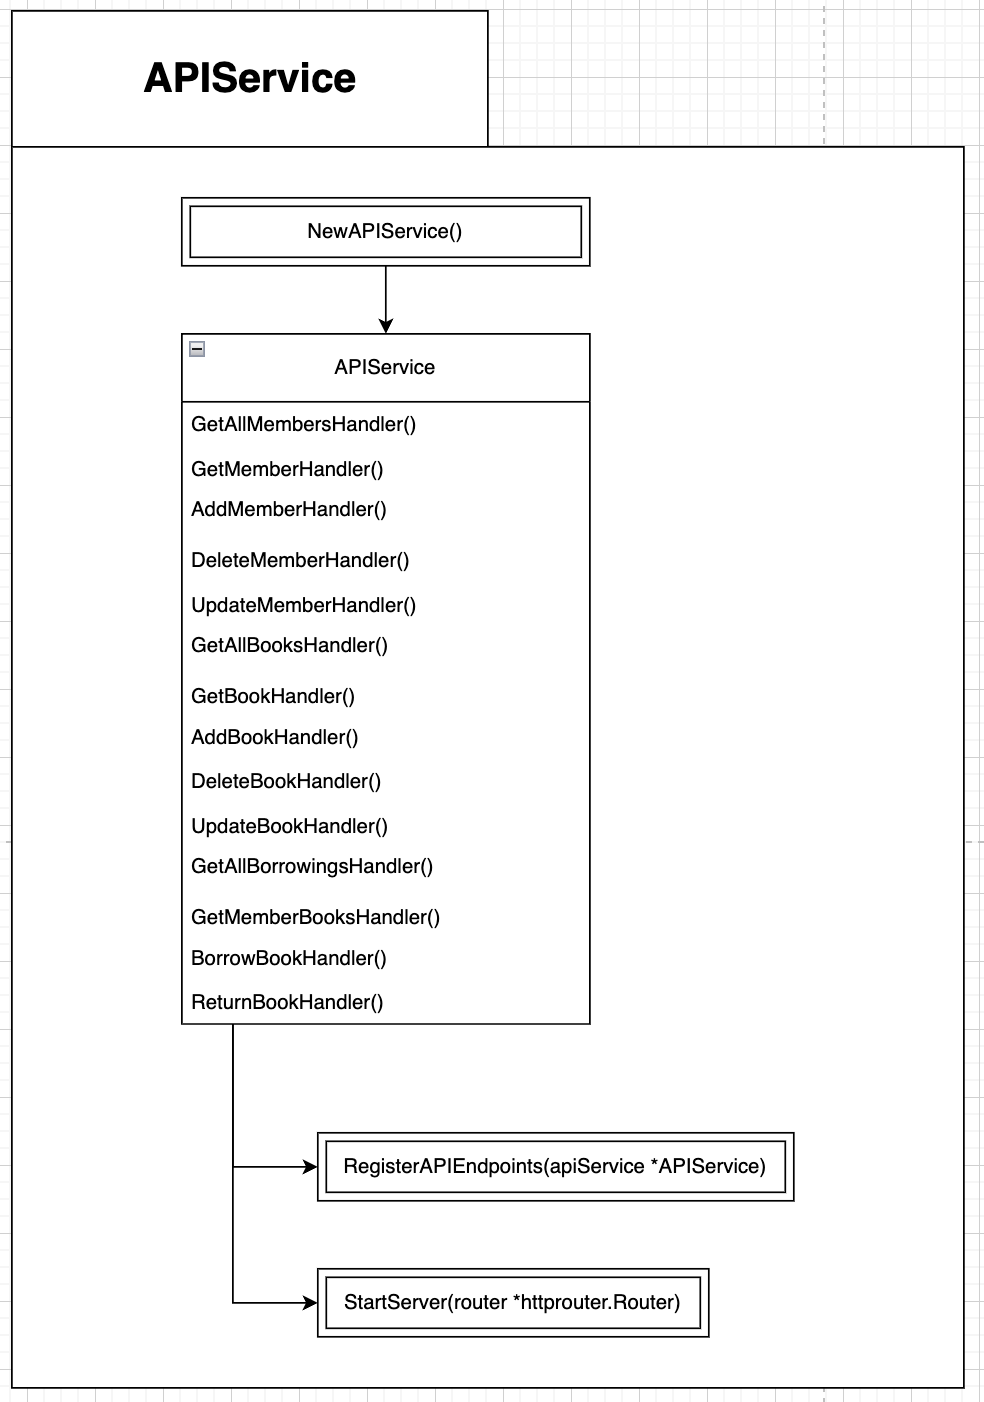
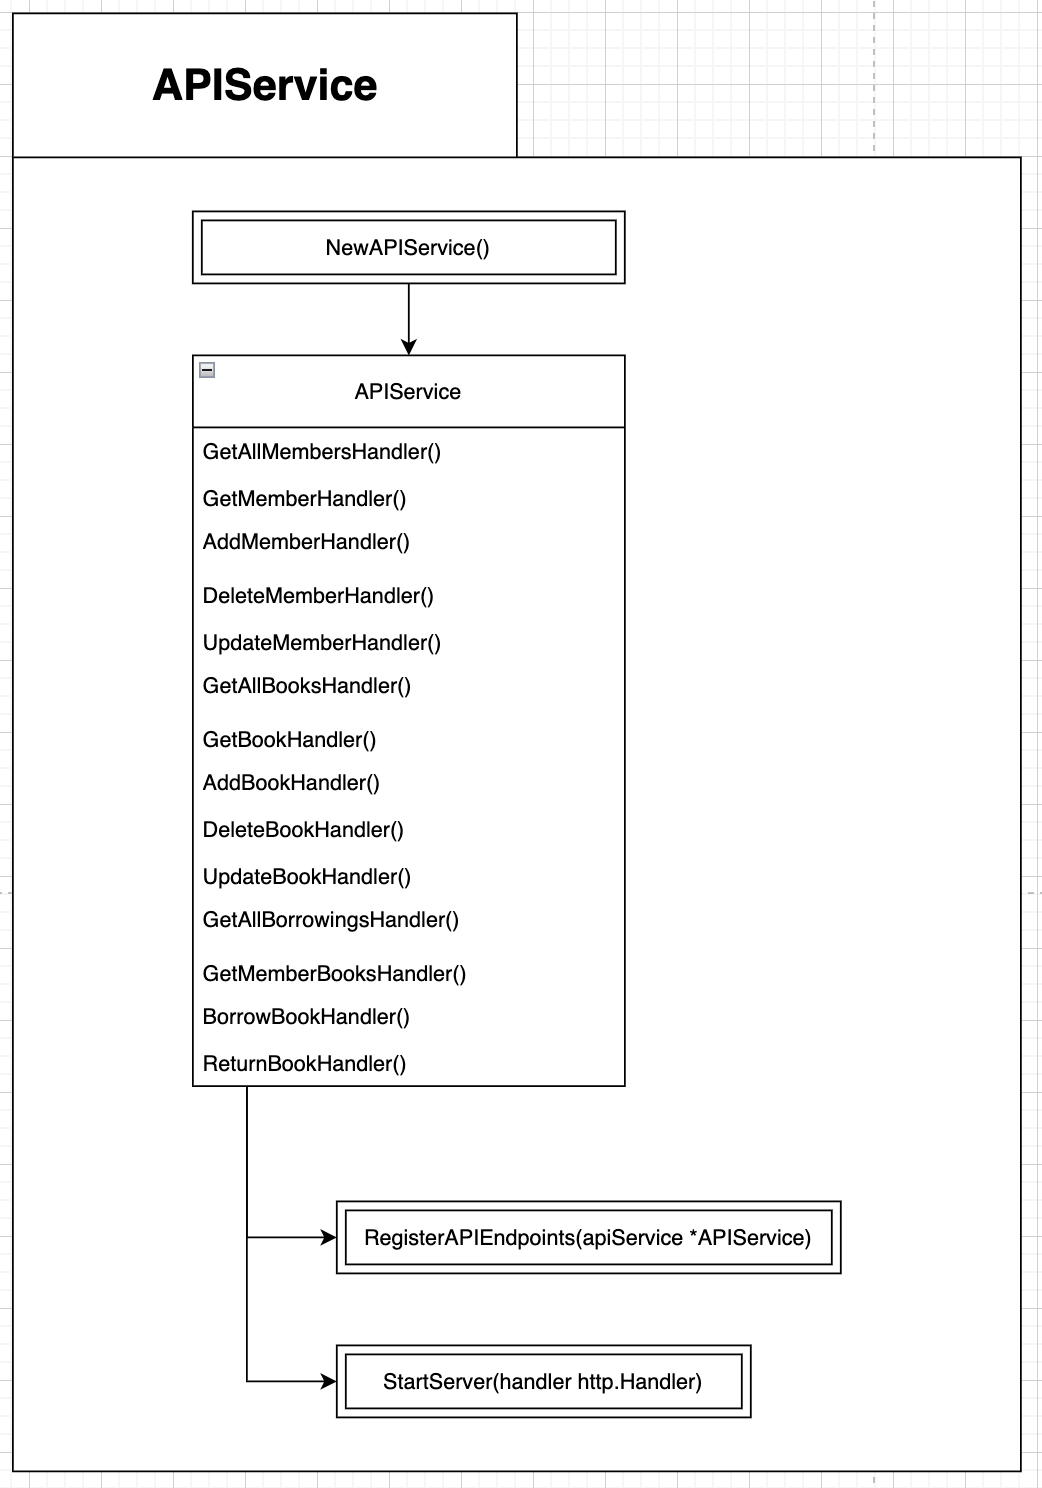
Fix bugs with time

diff --git a/internal/repositories/member_repository.go b/internal/repositories/member_repository.go
@@ -25,12 +25,13 @@ func (mr *MemberRepository) GetMember(id string) (models.Member, error) {
 
 func (mr *MemberRepository) AddMember(name string, address string, email string) error {
 	newID := GenerateID()
+	curTime, _ := time.Parse(time.DateTime, time.Now().Format(time.DateTime))
 	newMember := models.Member{
 		ID:        newID,
 		Name:      name,
 		Address:   address,
 		Email:     email,
-		CreatedAt: time.Now(),
+		CreatedAt: curTime,
 	}
 	err := storage.AddMemberStorage(newMember)
 	if err != nil {

diff --git a/internal/repositories/borrowing_repository.go b/internal/repositories/borrowing_repository.go
@@ -2,6 +2,7 @@ package repositories
 
 import (
 	"app/internal/models"
+	"errors"
 	"time"
 )
 
@@ -41,6 +42,10 @@ func (br *BorrowingRepository) GetMemberBooks(memberID string) ([]models.Book, e
 }
 
 func (br *BorrowingRepository) BorrowBook(bookID string, memberID string, borrowYear int) error {
+	if borrowYear > time.Now().Year() {
+		return errors.New("invalid year")
+	}
+
 	newID := GenerateID()
 	newBorrowing := models.Borrowing{
 		ID:         newID,

diff --git a/README.md b/README.md
@@ -89,14 +89,14 @@ MemberRepository:
 - GetAllMembers(): Возвращает список всех читателей.
 - GetMember(id string): Возвращает информацию о конкретном читателе.
 - AddMember(name string, address string, email string): Добавляет нового читателя в библиотеку.
-- UpdateMember(id string, name string, address string, email string): Обновляет информацию о читателе.
+- UpdateMember(id string, name *string, address *string, email *string): Обновляет информацию о читателе.
 - DeleteMember(id string): Удаляет читателя.
 
 BookRepository:
 - GetAllBooks(): Возвращает список всех книг.
 - GetBook(id string): Возвращает информацию о конкретной книге.
 - AddBook(title string, author string, publicationYear int, genre string, totalCopies int): Добавляет новую книгу в библиотеку.
-- UpdateBook(id string, title string, author string, publicationYear int, genre string, availableCopies int, totalCopies int): Обновляет информацию о книге.
+- UpdateBook(id *string, title *string, author *string, publicationYear *int, genre *string, availableCopies *int, totalCopies *int): Обновляет информацию о книге.
 - DeleteBook(id string): Удаляет книгу из библиотеки.
 
 BookRepository:
@@ -139,7 +139,7 @@ Member:
 
 ## 3.4. Дополнительные функции:
 - RegisterAPIEndpoints(apiService *APIService): Регистрирует обработчики API-запросов для сервиса.
-- StartServer(router *httprouter.Router): Запускает сервер.
+- StartServer(handler http.Handler): Запускает сервер.
 
 ## 4. Общая структура проекта:
 ![Architecture](screenshots/Architecture.png)
